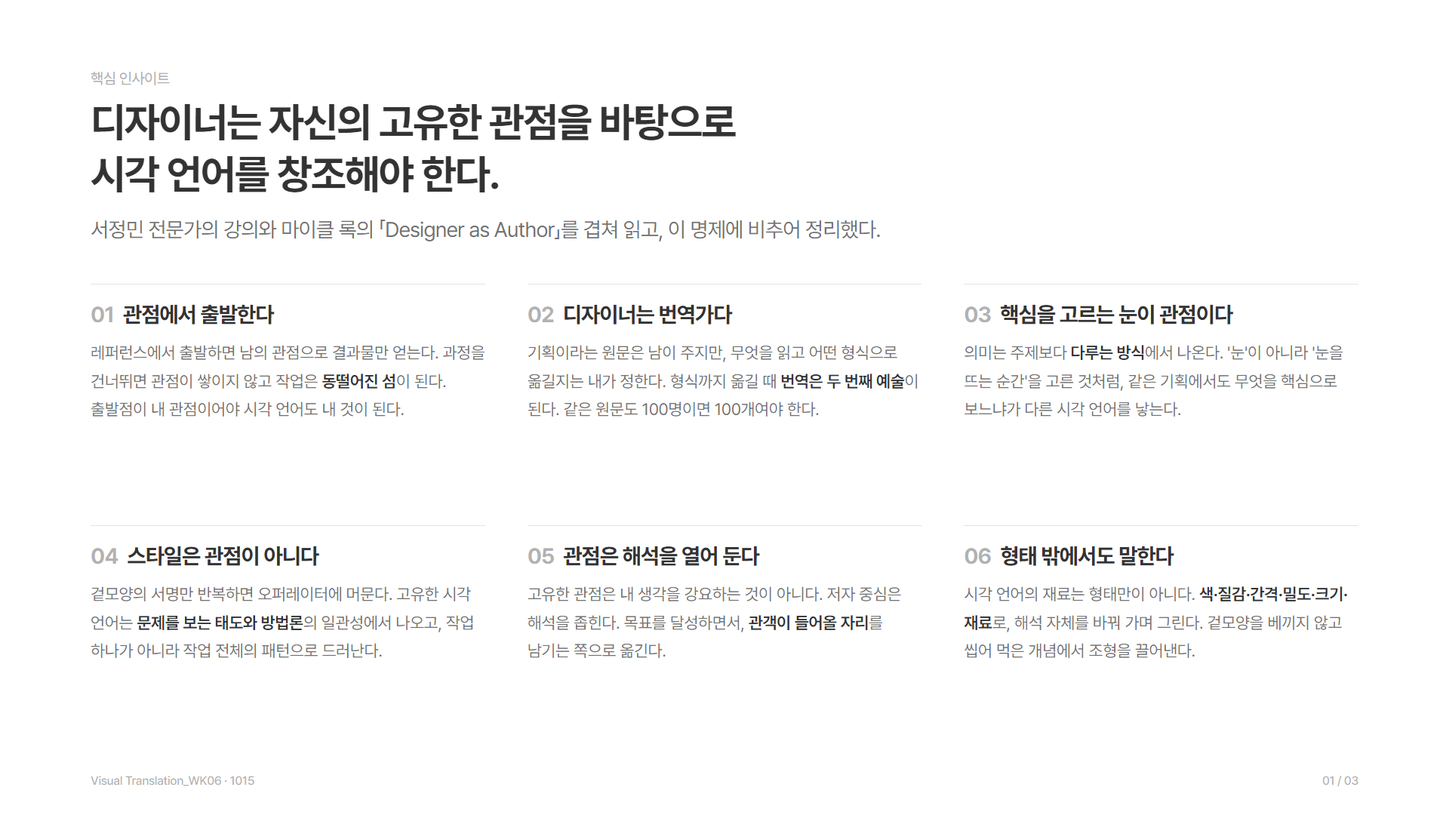
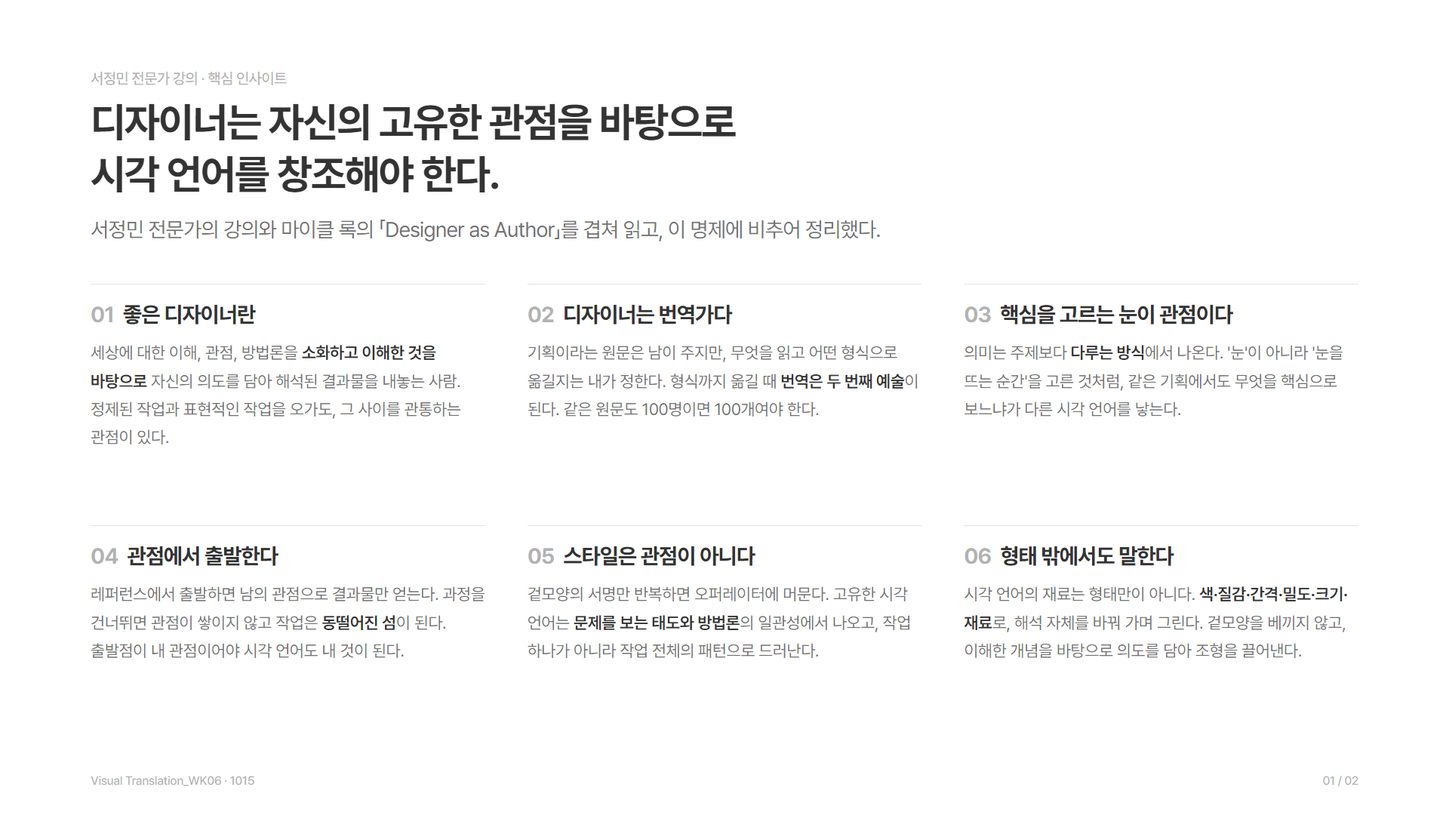
Merge Seo lecture and insights into one image, soften wording
Combine the Seo lecture card and the insights card into a single image
ordered 2_4, 1_2, 1_3, 1_1, 1_4, 1_6 (good designer, translator,
choosing the core, start from your view, style is not a view, beyond
form), and match the page and notes to that order. Replace "스스로
씹어 먹고" with understanding and digesting, then expressing intent.
The Rock commentary image becomes 02_rock.png.

diff --git a/1015/index.html b/1015/index.html
@@ -33,12 +33,12 @@
 <section class="log-section" id="insights" aria-labelledby="insights-title" data-open="true">
 <h2 class="log-title" id="insights-title"><button type="button" class="section-toggle" aria-expanded="true" aria-controls="insights-body"><span class="log-sign" aria-hidden="true"><img class="log-icon" src="../assets/mark.png" alt="" width="18" height="18"></span><span>핵심 인사이트</span></button></h2>
 <div class="section-body" id="insights-body" role="region" aria-labelledby="insights-title"><div class="section-clip"><div class="content">
-<p class="section-meta">디자이너는 자신의 고유한 관점을 바탕으로 시각 언어를 창조해야 한다. 서정민 전문가의 강의와 마이클 록의 「Designer as Author」를 겹쳐 읽고, 이 명제에 비추어 정리했다. · <a class="src-link" href="cards/">이미지 3장 보기 ↗</a></p>
-<ul class="slides" aria-label="핵심 인사이트 이미지"><li><figure><img src="cards/png/01_insights.png" alt="핵심 인사이트 - 디자이너는 자신의 고유한 관점을 바탕으로 시각 언어를 창조해야 한다" width="1920" height="1080"></figure></li></ul>
+<p class="section-meta">디자이너는 자신의 고유한 관점을 바탕으로 시각 언어를 창조해야 한다. 서정민 전문가의 강의와 마이클 록의 「Designer as Author」를 겹쳐 읽고, 이 명제에 비추어 정리했다. · <a class="src-link" href="cards/">이미지 2장 보기 ↗</a></p>
+<ul class="slides" aria-label="핵심 인사이트 이미지"><li><figure><img src="cards/png/01_insights.png" alt="서정민 전문가 강의 핵심 인사이트 - 디자이너는 자신의 고유한 관점을 바탕으로 시각 언어를 창조해야 한다" width="1920" height="1080"></figure></li></ul>
 <ul class="scene-list" aria-label="핵심 인사이트">
-<li class="row"><button type="button" class="row-title" aria-expanded="false"><span class="bullet" aria-hidden="true"></span><span class="row-label">01 / 관점에서 출발한다</span></button><div class="row-panel" role="region" aria-label="관점에서 출발한다"><div class="row-clip"><div class="copy">
-<p>레퍼런스에서 출발하면 남의 관점으로 결과물만 얻는다. 목적지까지 가는 과정을 건너뛰면 관점이 쌓이지 않고, 작업들은 '나'를 중심으로 이어지지 않는 <span class="k">동떨어진 섬</span>이 된다. 출발점이 내 관점이어야 시각 언어도 내 것이 된다.</p>
-<p class="src">서정민 · 낙하산과 섬 / 록 · 해체주의가 이론을 스타일로 베낀 일</p>
+<li class="row"><button type="button" class="row-title" aria-expanded="false"><span class="bullet" aria-hidden="true"></span><span class="row-label">01 / 좋은 디자이너란</span></button><div class="row-panel" role="region" aria-label="좋은 디자이너란"><div class="row-clip"><div class="copy">
+<p>세상에 대한 이해, 관점, 방법론, 디자인에 대한 생각을 <span class="k">소화하고 이해한 것을 바탕으로</span>, 자신의 의도를 담아 해석된 결과물을 세상에 내놓는 사람. 정제된 작업과 표현적인 작업을 오가도, 그 사이를 관통하는 관점이 있다.</p>
+<p class="src">서정민 · 좋은 디자이너의 정의</p>
 </div></div></div></li>
 <li class="row"><button type="button" class="row-title" aria-expanded="false"><span class="bullet" aria-hidden="true"></span><span class="row-label">02 / 디자이너는 번역가다</span></button><div class="row-panel" role="region" aria-label="디자이너는 번역가다"><div class="row-clip"><div class="copy">
 <p>기획이라는 원문은 남이 주지만, 무엇을 읽고 어떤 형식으로 옮길지는 내가 정한다. 파운드처럼 뜻뿐 아니라 형식까지 옮길 때 <span class="k">번역은 두 번째 예술</span>이 된다. 그래서 같은 원문도 100명이 옮기면 100개가 나와야 한다. 수업 이름이 '저자'가 아니라 Visual Translation인 이유다.</p>
@@ -48,16 +48,16 @@
 <p>의미는 주제보다 <span class="k">다루는 방식</span>에서 나온다. 디자이너는 주제를 고르지 못할 때가 많지만, 그 안에서 무엇을 핵심으로 볼지는 고를 수 있다. '눈'이 아니라 '눈을 뜨는 순간'을 고른 것처럼, 같은 기획에서도 고르는 순간이 다르면 다른 시각 언어가 나온다.</p>
 <p class="src">서정민 · 《Kaleidoscope Eyes》 개안 / 록 · treatment</p>
 </div></div></div></li>
-<li class="row"><button type="button" class="row-title" aria-expanded="false"><span class="bullet" aria-hidden="true"></span><span class="row-label">04 / 스타일은 관점이 아니다</span></button><div class="row-panel" role="region" aria-label="스타일은 관점이 아니다"><div class="row-clip"><div class="copy">
+<li class="row"><button type="button" class="row-title" aria-expanded="false"><span class="bullet" aria-hidden="true"></span><span class="row-label">04 / 관점에서 출발한다</span></button><div class="row-panel" role="region" aria-label="관점에서 출발한다"><div class="row-clip"><div class="copy">
+<p>레퍼런스에서 출발하면 남의 관점으로 결과물만 얻는다. 목적지까지 가는 과정을 건너뛰면 관점이 쌓이지 않고, 작업들은 '나'를 중심으로 이어지지 않는 <span class="k">동떨어진 섬</span>이 된다. 출발점이 내 관점이어야 시각 언어도 내 것이 된다.</p>
+<p class="src">서정민 · 낙하산과 섬 / 록 · 해체주의가 이론을 스타일로 베낀 일</p>
+</div></div></div></li>
+<li class="row"><button type="button" class="row-title" aria-expanded="false"><span class="bullet" aria-hidden="true"></span><span class="row-label">05 / 스타일은 관점이 아니다</span></button><div class="row-panel" role="region" aria-label="스타일은 관점이 아니다"><div class="row-clip"><div class="copy">
 <p>겉모양의 서명만 반복하면 <span class="k">오퍼레이터</span>에 머문다. 고유한 시각 언어는 문제를 보는 태도와 방법론의 일관성에서 나오고, 작업 하나가 아니라 작업 전체의 패턴으로 드러난다. "그 작업은 무엇에 관한 것인가?"에 답할 수 있어야 한다.</p>
 <p class="src">서정민 · 포트폴리오의 일관된 관점 / 록 · 작가 감독의 내적 의미</p>
 </div></div></div></li>
-<li class="row"><button type="button" class="row-title" aria-expanded="false"><span class="bullet" aria-hidden="true"></span><span class="row-label">05 / 관점은 해석을 열어 둔다</span></button><div class="row-panel" role="region" aria-label="관점은 해석을 열어 둔다"><div class="row-clip"><div class="copy">
-<p>고유한 관점은 내 생각을 강요하는 것이 아니다. 저자를 중심에 두면 해석은 오히려 좁아진다. 목표를 달성하면서, <span class="k">관객이 들어올 자리</span>를 남기는 쪽으로 옮긴다. 마틴 파의 '관객이 스스로 찾게 한다'와 이어진다.</p>
-<p class="src">서정민 · 모두 목표는 달성해야 한다 / 록 · 권력 게임</p>
-</div></div></div></li>
 <li class="row"><button type="button" class="row-title" aria-expanded="false"><span class="bullet" aria-hidden="true"></span><span class="row-label">06 / 형태 밖에서도 말한다</span></button><div class="row-panel" role="region" aria-label="형태 밖에서도 말한다"><div class="row-clip"><div class="copy">
-<p>시각 언어의 재료는 형태만이 아니다. <span class="k">색·질감·간격·밀도·크기·재료</span>로, 해석 자체를 바꿔 가며 그린다. 겉모양을 베끼지 않고 스스로 씹어 먹은 개념에서 조형을 끌어낼 때 그 언어가 고유해진다.</p>
+<p>시각 언어의 재료는 형태만이 아니다. <span class="k">색·질감·간격·밀도·크기·재료</span>로, 해석 자체를 바꿔 가며 그린다. 겉모양을 베끼지 않고, 소화하고 이해한 개념을 바탕으로 의도를 담아 조형을 끌어낼 때 그 언어가 고유해진다.</p>
 <p class="src">서정민 · 키워드 스케치 피드백</p>
 </div></div></div></li>
 </ul>
@@ -68,7 +68,6 @@
 <h2 class="log-title" id="seo-title"><button type="button" class="section-toggle" aria-expanded="true" aria-controls="seo-body"><span class="log-sign" aria-hidden="true"><img class="log-icon" src="../assets/mark.png" alt="" width="18" height="18"></span><span>정리 1 · 서정민 전문가 발언</span></button></h2>
 <div class="section-body" id="seo-body" role="region" aria-labelledby="seo-title"><div class="section-clip"><div class="content">
 <p class="section-meta">VT06 수업 녹취에서 서정민 전문가의 발언만 골랐다. 자동 변환으로 틀린 고유명사는 문맥으로 바로잡았다.</p>
-<ul class="slides" aria-label="서정민 전문가 발언 이미지"><li><figure><img src="cards/png/02_seo.png" alt="정리 1 서정민 전문가 발언 - 번역가로서의 디자이너 여섯 가지" loading="lazy" width="1920" height="1080"></figure></li></ul>
 <ul class="scene-list" aria-label="서정민 전문가 발언">
 <li class="row"><button type="button" class="row-title" aria-expanded="false"><span class="bullet" aria-hidden="true"></span><span class="row-label">01 / 번역가로서의 디자이너</span></button><div class="row-panel" role="region" aria-label="번역가로서의 디자이너"><div class="row-clip"><div class="copy">
 <p>요즘 말하는 '초월 번역'에는 번역가의 주관과 의역이 들어간다. 디자이너도 <span class="k">자아를 가진 번역가</span>로서, 자기 해석을 거쳐 자기 시각언어로 이야기를 전해야 한다.</p>
@@ -85,7 +84,7 @@
 <p class="src">녹취의 "저만의 단점"은 맥락상 "관점"으로 읽었다</p>
 </div></div></div></li>
 <li class="row"><button type="button" class="row-title" aria-expanded="false"><span class="bullet" aria-hidden="true"></span><span class="row-label">04 / 좋은 디자이너란</span></button><div class="row-panel" role="region" aria-label="좋은 디자이너란"><div class="row-clip"><div class="copy">
-<p class="pick">세상에 대한 이해, 관점, 방법론, 디자인에 대한 생각을 스스로 씹어 먹고, 그것을 통해 해석된 결과물을 세상에 내놓는 사람.</p>
+<p class="pick">세상에 대한 이해, 관점, 방법론, 디자인에 대한 생각을 소화하고 이해한 것을 바탕으로, 자신의 의도를 담아 해석된 결과물을 세상에 내놓는 사람.</p>
 <p>이것이 번역가로서 디자이너가 갖춰야 할 기본 스탠스다. 작업들을 관통하는 공통된 맥락을 스스로 선명하게 만들어야 한다.</p>
 </div></div></div></li>
 </ul>
@@ -153,7 +152,7 @@
 <h2 class="log-title" id="rock-title"><button type="button" class="section-toggle" aria-expanded="true" aria-controls="rock-body"><span class="log-sign" aria-hidden="true"><img class="log-icon" src="../assets/mark.png" alt="" width="18" height="18"></span><span>정리 2 · 「Designer as Author」</span></button></h2>
 <div class="section-body" id="rock-body" role="region" aria-labelledby="rock-title"><div class="section-clip"><div class="content">
 <p class="section-meta">마이클 록(2x4 공동 창립자), 1996 · <a class="src-link" href="https://2x4.org/ideas/1996/designer-as-author/">원문 ↗</a> · 원문은 저작권이 있는 글이라 전문 번역 대신 단락별로 내 말로 풀어 정리했다. 정확한 문장은 원문에서 확인한다.</p>
-<ul class="slides" aria-label="마이클 록 에세이 해석 이미지"><li><figure><img src="cards/png/03_rock.png" alt="정리 2 마이클 록 Designer as Author 해석 - 저자보다 번역가" loading="lazy" width="1920" height="1080"></figure></li></ul>
+<ul class="slides" aria-label="마이클 록 에세이 해석 이미지"><li><figure><img src="cards/png/02_rock.png" alt="정리 2 마이클 록 Designer as Author 해석 - 저자보다 번역가" loading="lazy" width="1920" height="1080"></figure></li></ul>
 <ul class="scene-list" aria-label="Designer as Author 단락별 해설">
 <li class="row"><button type="button" class="row-title" aria-expanded="false"><span class="bullet" aria-hidden="true"></span><span class="row-label">0 / 왜 '저자'인가</span></button><div class="row-panel" role="region" aria-label="왜 저자인가"><div class="row-clip"><div class="copy">
 <p>'디자이너는 저자다'라는 말이 유행한다. '저자'에는 <span class="k">스스로 만들어 내는 사람, 주체성</span>이라는 뜻이 실려 있어 매력적이다. 남의 메시지를 전하는 일로 여겨지던 디자인을 새로 설명하는 데도 쓸모 있다.</p>

diff --git a/1015/cards/index.html b/1015/cards/index.html
@@ -7,7 +7,7 @@
 <link rel="icon" type="image/png" href="../../assets/mark.png">
 <link rel="stylesheet" href="https://cdn.jsdelivr.net/gh/orioncactus/pretendard@v1.3.9/dist/web/variable/pretendardvariable-dynamic-subset.min.css">
 <!--
-  1015 정리 이미지 3장(인사이트 · 서정민 발언 · 마이클 록 해석). 1920×1080, 토큰은 WK05/deck-full과 같다.
+  1015 정리 이미지 2장(서정민 강의 · 핵심 인사이트 / 마이클 록 해석). 1920×1080, 토큰은 WK05/deck-full과 같다.
   보기: 이 페이지 / 한 장만: ?s=2 (PNG 내보내기용)
 -->
 <style>
@@ -54,33 +54,18 @@ html.single .frame.on{display:block}
 <main class="deck">
 
 <div class="frame"><section class="slide thesis">
-  <p class="label">핵심 인사이트</p>
+  <p class="label">서정민 전문가 강의 · 핵심 인사이트</p>
   <h1 class="heading">디자이너는 자신의 고유한 관점을 바탕으로<br>시각 언어를 창조해야 한다.</h1>
   <p class="lead">서정민 전문가의 강의와 마이클 록의 「Designer as Author」를 겹쳐 읽고, 이 명제에 비추어 정리했다.</p>
   <div class="grid">
-    <div><span class="title"><i>01</i>관점에서 출발한다</span><p>레퍼런스에서 출발하면 남의 관점으로 결과물만 얻는다. 과정을 건너뛰면 관점이 쌓이지 않고 작업은 <b>동떨어진 섬</b>이 된다. 출발점이 내 관점이어야 시각 언어도 내 것이 된다.</p></div>
+    <div><span class="title"><i>01</i>좋은 디자이너란</span><p>세상에 대한 이해, 관점, 방법론을 <b>소화하고 이해한 것을 바탕으로</b> 자신의 의도를 담아 해석된 결과물을 내놓는 사람. 정제된 작업과 표현적인 작업을 오가도, 그 사이를 관통하는 관점이 있다.</p></div>
     <div><span class="title"><i>02</i>디자이너는 번역가다</span><p>기획이라는 원문은 남이 주지만, 무엇을 읽고 어떤 형식으로 옮길지는 내가 정한다. 형식까지 옮길 때 <b>번역은 두 번째 예술</b>이 된다. 같은 원문도 100명이면 100개여야 한다.</p></div>
     <div><span class="title"><i>03</i>핵심을 고르는 눈이 관점이다</span><p>의미는 주제보다 <b>다루는 방식</b>에서 나온다. '눈'이 아니라 '눈을 뜨는 순간'을 고른 것처럼, 같은 기획에서도 무엇을 핵심으로 보느냐가 다른 시각 언어를 낳는다.</p></div>
-    <div><span class="title"><i>04</i>스타일은 관점이 아니다</span><p>겉모양의 서명만 반복하면 오퍼레이터에 머문다. 고유한 시각 언어는 <b>문제를 보는 태도와 방법론</b>의 일관성에서 나오고, 작업 하나가 아니라 작업 전체의 패턴으로 드러난다.</p></div>
-    <div><span class="title"><i>05</i>관점은 해석을 열어 둔다</span><p>고유한 관점은 내 생각을 강요하는 것이 아니다. 저자 중심은 해석을 좁힌다. 목표를 달성하면서, <b>관객이 들어올 자리</b>를 남기는 쪽으로 옮긴다.</p></div>
-    <div><span class="title"><i>06</i>형태 밖에서도 말한다</span><p>시각 언어의 재료는 형태만이 아니다. <b>색·질감·간격·밀도·크기·재료</b>로, 해석 자체를 바꿔 가며 그린다. 겉모양을 베끼지 않고 씹어 먹은 개념에서 조형을 끌어낸다.</p></div>
+    <div><span class="title"><i>04</i>관점에서 출발한다</span><p>레퍼런스에서 출발하면 남의 관점으로 결과물만 얻는다. 과정을 건너뛰면 관점이 쌓이지 않고 작업은 <b>동떨어진 섬</b>이 된다. 출발점이 내 관점이어야 시각 언어도 내 것이 된다.</p></div>
+    <div><span class="title"><i>05</i>스타일은 관점이 아니다</span><p>겉모양의 서명만 반복하면 오퍼레이터에 머문다. 고유한 시각 언어는 <b>문제를 보는 태도와 방법론</b>의 일관성에서 나오고, 작업 하나가 아니라 작업 전체의 패턴으로 드러난다.</p></div>
+    <div><span class="title"><i>06</i>형태 밖에서도 말한다</span><p>시각 언어의 재료는 형태만이 아니다. <b>색·질감·간격·밀도·크기·재료</b>로, 해석 자체를 바꿔 가며 그린다. 겉모양을 베끼지 않고, 이해한 개념을 바탕으로 의도를 담아 조형을 끌어낸다.</p></div>
   </div>
-  <div class="foot"><span>Visual Translation_WK06 · 1015</span><span>01 / 03</span></div>
-</section></div>
-
-<div class="frame"><section class="slide">
-  <p class="label">정리 1 · 서정민 전문가 발언</p>
-  <h2 class="heading">번역가로서의 디자이너</h2>
-  <p class="lead">VT06 강의에서 서정민 전문가가 강조한 여섯 가지. 수업이 왜 '번역'을 말하는지, 레퍼런스가 왜 위험한지.</p>
-  <div class="grid">
-    <div><span class="title"><i>01</i>100명이면 100개</span><p>초월 번역처럼 디자이너도 자아를 가진 번역가다. 같은 조건을 100명에게 주면 <b>100개가 모두 달라야</b> 하고, 모두 목표는 달성해야 한다. 목표에 닿는 길이 '나의 방법'이어야 한다.</p></div>
-    <div><span class="title"><i>02</i>레퍼런스는 낙하산이다</span><p>레퍼런스에서 출발하면 목적지 섬에 <b>낙하산으로 떨어지는 것</b>과 같다. 항구와 비용, 어려움을 겪으며 가는 과정을 건너뛰어 배울 기회를 잃는다. 그래서 핀터레스트도 전부 공개해 둔다.</p></div>
-    <div><span class="title"><i>03</i>동떨어진 섬들</span><p>남의 과정을 생략한 작업은 '나'를 중심으로 이어지지 않는다. 관점이 쌓이지 않으면 <b>표현과 기술만 반복하는 오퍼레이터</b>가 된다. 채용에서 보는 것도 일관된 관점이다.</p></div>
-    <div><span class="title"><i>04</i>좋은 디자이너란</span><p>세상에 대한 이해, 관점, 방법론을 <b>스스로 씹어 먹고</b> 해석된 결과물을 내놓는 사람. 정제된 작업과 표현적인 작업을 오가도, 그 사이를 관통하는 관점이 있다.</p></div>
-    <div><span class="title"><i>05</i>눈이 아니라 개안</span><p>리움 《Kaleidoscope Eyes》(2022) 포스터. 아무것도 없는 곳에서 작품이 보이는 순간을 <b>'눈을 뜨는 순간'</b>으로 읽었다. 포스터는 한순간이다. 이야기를 먼저 정하면 핵심 단어가 나온다.</p></div>
-    <div><span class="title"><i>06</i>형태 밖의 스케치</span><p>스케치가 형태 위주였다. 색만, 구긴 종이 한 장만 올려도 스케치다. '차가움'은 얼음이자 물, 태도, 쇠의 감각이다. <b>간격·밀도·크기·질감·재료</b>로도 그린다.</p></div>
-  </div>
-  <div class="foot"><span>Visual Translation_WK06 · 1015</span><span>02 / 03</span></div>
+  <div class="foot"><span>Visual Translation_WK06 · 1015</span><span>01 / 02</span></div>
 </section></div>
 
 <div class="frame"><section class="slide">
@@ -95,7 +80,7 @@ html.single .frame.on{display:block}
     <div><span class="title"><i>4</i>대안 모델 셋</span><p><b>번역가</b>: 파운드의 번역처럼 형식까지 옮겨 두 번째 예술이 된다. <b>연주자</b>: 『미디어는 마사지다』처럼 내용에 생명을 준다. <b>감독</b>: 이르마 봄처럼 배열로 서사를 만든다.</p></div>
     <div><span class="title"><i>5</i>결론</span><p>저자 하나로는 고독한 천재와 '정답 하나'의 읽기를 부추긴다. 그래도 작업은 누군가 만들고, <b>방법의 차이는 중요하다.</b> 디자인은 편집, 서술, 번역, 연출을 모두 품는다.</p></div>
   </div>
-  <div class="foot"><span>Visual Translation_WK06 · 1015</span><span>03 / 03</span></div>
+  <div class="foot"><span>Visual Translation_WK06 · 1015</span><span>02 / 02</span></div>
 </section></div>
 
 </main>

diff --git a/1015/README.md b/1015/README.md
@@ -6,7 +6,7 @@
 - 웹페이지: https://yongzu.github.io/VT/1015/
 - 정민님이 읽어 보라고 한 마이클 록(Michael Rock)의 「Designer as Author」를 단락별로 한국어로 풀어 정리했다 → [정리 2](#정리-2-designer-as-author-마이클-록-1996)
 - 두 정리를 겹쳐 '디자이너는 자신의 고유한 관점을 바탕으로 시각 언어를 창조해야 한다'는 명제로 핵심 인사이트를 썼다 → [핵심 인사이트](#핵심-인사이트)
-- 세 정리를 각각 이미지(1920×1080)로 만들었다 → [cards/](cards/)
+- 서정민 강의·핵심 인사이트를 한 장, 마이클 록 해석을 한 장, 이미지(1920×1080) 두 장으로 만들었다 → [cards/](cards/)
 
 > 녹취는 음성 자동 변환이라 고유명사가 많이 틀려 있다. 문맥으로 바로잡았다:
 > 칼레르스코 와이즈 → **Kaleidoscope Eyes**, 오큐트아트·어케트아트 → **Acute Art**, 피터 바스트·핀트레스 → **핀터레스트**, 계안 → **개안(開眼)**.
@@ -21,20 +21,18 @@
 
 ![핵심 인사이트](cards/png/01_insights.png)
 
-1. **관점에서 출발한다.** 레퍼런스에서 출발하면 남의 관점으로 결과물만 얻는다. 과정을 건너뛰면 관점이 쌓이지 않고, 작업들은 '나'를 중심으로 이어지지 않는 동떨어진 섬이 된다. 출발점이 내 관점이어야 시각 언어도 내 것이 된다. (서정민 · 낙하산과 섬 / 록 · 해체주의가 이론을 스타일로 베낀 일)
+1. **좋은 디자이너란.** 세상에 대한 이해, 관점, 방법론, 디자인에 대한 생각을 소화하고 이해한 것을 바탕으로, 자신의 의도를 담아 해석된 결과물을 세상에 내놓는 사람. 정제된 작업과 표현적인 작업을 오가도, 그 사이를 관통하는 관점이 있다. (서정민 · 좋은 디자이너의 정의)
 2. **디자이너는 번역가다.** 기획이라는 원문은 남이 주지만, 무엇을 읽고 어떤 형식으로 옮길지는 내가 정한다. 파운드처럼 형식까지 옮길 때 번역은 두 번째 예술이 된다. 같은 원문도 100명이 옮기면 100개가 나와야 한다. 수업 이름이 '저자'가 아니라 Visual Translation인 이유다. (서정민 · 100명이면 100개 / 록 · 번역가 모델)
 3. **핵심을 고르는 눈이 관점이다.** 의미는 주제보다 다루는 방식에서 나온다. 주제는 고르지 못해도 무엇을 핵심으로 볼지는 고를 수 있다. '눈'이 아니라 '눈을 뜨는 순간'을 고른 것처럼, 고르는 순간이 다르면 다른 시각 언어가 나온다. (서정민 · 개안 / 록 · treatment)
-4. **스타일은 관점이 아니다.** 겉모양의 서명만 반복하면 오퍼레이터에 머문다. 고유한 시각 언어는 문제를 보는 태도와 방법론의 일관성에서 나오고, 작업 전체의 패턴으로 드러난다. "그 작업은 무엇에 관한 것인가?"에 답할 수 있어야 한다. (서정민 · 일관된 관점 / 록 · 내적 의미)
-5. **관점은 해석을 열어 둔다.** 고유한 관점은 내 생각을 강요하는 것이 아니다. 저자를 중심에 두면 해석은 오히려 좁아진다. 목표를 달성하면서 관객이 들어올 자리를 남긴다. 마틴 파의 '관객이 스스로 찾게 한다'([1008](../1008/))와 이어진다. (서정민 · 목표 달성 / 록 · 권력 게임)
-6. **형태 밖에서도 말한다.** 시각 언어의 재료는 형태만이 아니다. 색·질감·간격·밀도·크기·재료로, 해석 자체를 바꿔 가며 그린다. 스스로 씹어 먹은 개념에서 조형을 끌어낼 때 그 언어가 고유해진다. (서정민 · 스케치 피드백)
+4. **관점에서 출발한다.** 레퍼런스에서 출발하면 남의 관점으로 결과물만 얻는다. 과정을 건너뛰면 관점이 쌓이지 않고, 작업들은 '나'를 중심으로 이어지지 않는 동떨어진 섬이 된다. 출발점이 내 관점이어야 시각 언어도 내 것이 된다. (서정민 · 낙하산과 섬 / 록 · 해체주의가 이론을 스타일로 베낀 일)
+5. **스타일은 관점이 아니다.** 겉모양의 서명만 반복하면 오퍼레이터에 머문다. 고유한 시각 언어는 문제를 보는 태도와 방법론의 일관성에서 나오고, 작업 전체의 패턴으로 드러난다. "그 작업은 무엇에 관한 것인가?"에 답할 수 있어야 한다. (서정민 · 일관된 관점 / 록 · 내적 의미)
+6. **형태 밖에서도 말한다.** 시각 언어의 재료는 형태만이 아니다. 색·질감·간격·밀도·크기·재료로, 해석 자체를 바꿔 가며 그린다. 겉모양을 베끼지 않고, 소화하고 이해한 개념을 바탕으로 의도를 담아 조형을 끌어낼 때 그 언어가 고유해진다. (서정민 · 스케치 피드백)
 
-정리 이미지 3장: [cards/](cards/) — [01 인사이트](cards/png/01_insights.png) · [02 서정민 발언](cards/png/02_seo.png) · [03 마이클 록 해석](cards/png/03_rock.png)
+정리 이미지 2장: [cards/](cards/) — [01 서정민 강의 · 핵심 인사이트](cards/png/01_insights.png) · [02 마이클 록 해석](cards/png/02_rock.png)
 
 ---
 
 ## 정리 1. 서정민 전문가 발언 핵심
-
-![정리 1 서정민 전문가 발언](cards/png/02_seo.png)
 
 ### 1. 번역가로서의 디자이너 — 이 수업을 설계한 이유
 - 요즘 말하는 '초월 번역'에는 번역가의 주관과 의역이 들어간다. 디자이너도 **자아를 가진 번역가**로서, 자기 해석을 거쳐 자기 시각언어로 이야기를 전해야 한다.
@@ -56,7 +54,7 @@
 - 그렇지 않으면 **파편화된 결과물에 표현과 기술만 반복하는 오퍼레이터**가 되기 쉽다.
 
 ### 4. 좋은 디자이너의 정의
-> 세상에 대한 이해, 관점, 방법론, 디자인에 대한 생각을 **스스로 씹어 먹고**, 그것을 통해 **해석된 결과물**을 세상에 내놓는 사람.
+> 세상에 대한 이해, 관점, 방법론, 디자인에 대한 생각을 **소화하고 이해한 것을 바탕으로**, 자신의 의도를 담아 **해석된 결과물**을 세상에 내놓는 사람.
 
 - 이것이 번역가로서 디자이너가 갖춰야 할 기본 스탠스다. 작업들을 관통하는 공통된 맥락(관점)을 스스로 선명하게 만들어야 한다.
 
@@ -97,7 +95,7 @@
 - 마이클 록은 뉴욕 디자인 스튜디오 2x4의 공동 창립자다. 1996년에 쓴 「Graphic Authorship」을 다듬어 2013년 『Multiple Signatures』에 다시 실었다.
 - **전문 번역 대신 단락별 해설로 정리했다.** 원문은 저작권이 있는 글이고 이 저장소는 public이라, 전문 번역본(2차 저작물)을 올리지 않는다. 아래는 원문의 흐름을 따라 내 말로 풀어 쓴 것이다. 정확한 문장은 원문 링크로 확인한다.
 
-![정리 2 마이클 록 해석](cards/png/03_rock.png)
+![정리 2 마이클 록 해석](cards/png/02_rock.png)
 
 ### 단락별 해설
 
